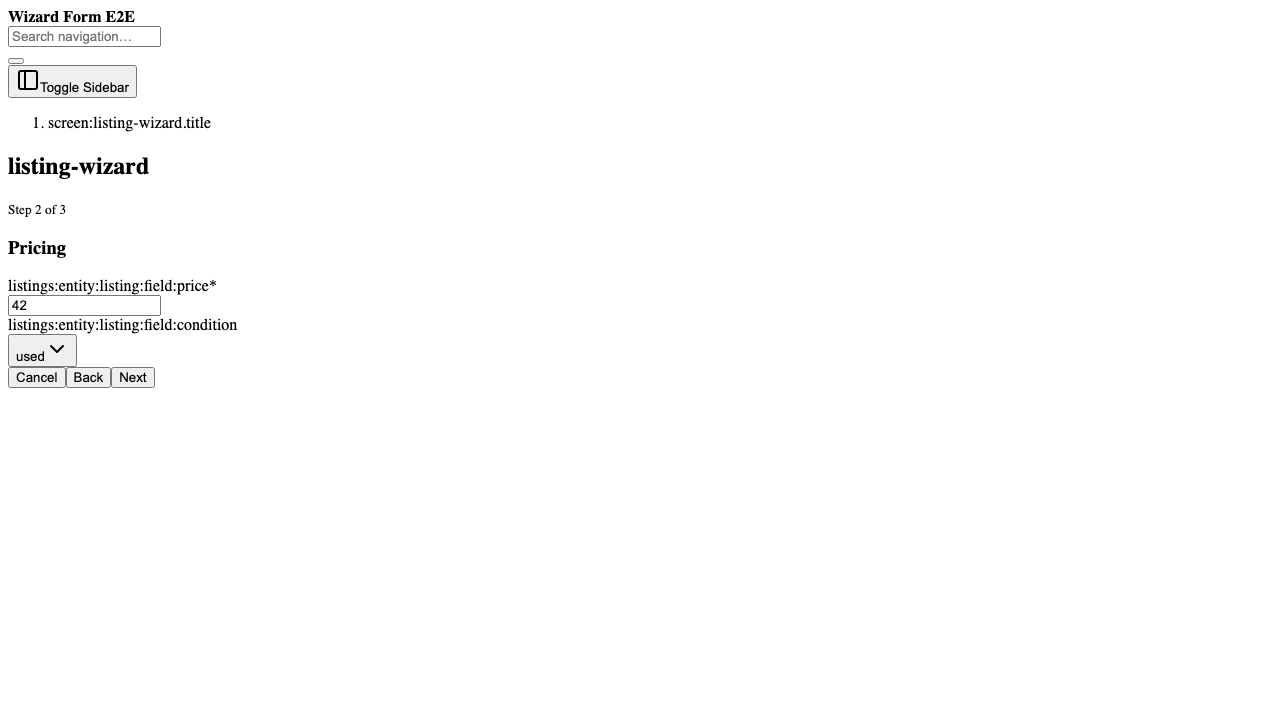
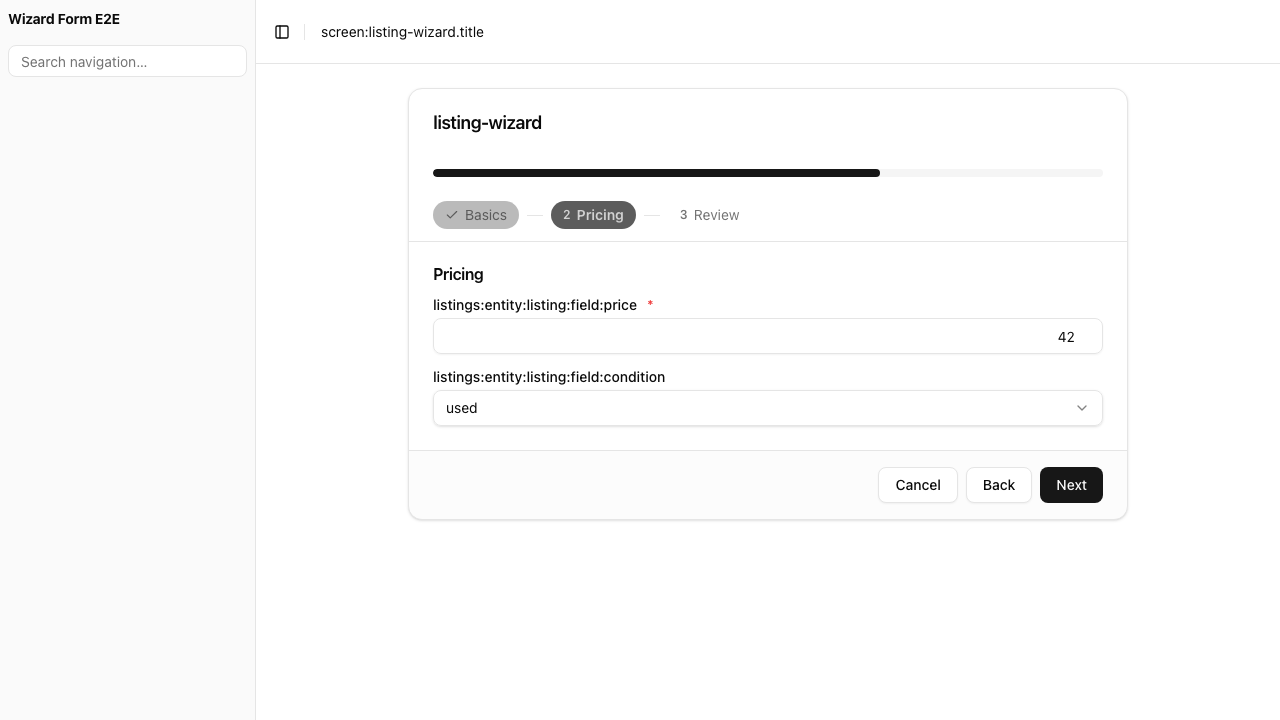
fix(renderer-web): ProgressBar owns its height regardless of container
#1963 fixed the fill bar's width resolving against the wrapper's wrong
height, but never touched why the wrapper was wrong in the first place:
RenderEdit's wizard chrome pads every direct child of the form body
(`[&>:not(section)]:py-3`, first-child `pt-6`), and with box-sizing:
border-box that padding collided with the track's own `h-2`, forcing it
to ~36px instead of 8px (measured live in samples/recipes/wizard-form —
wrapper computed height 36px, padding-top 24px + padding-bottom 12px,
content collapsed to 0).

Move the track into its own inner element so no ancestor's
descendant-selector padding or flex stretch can ever reach it — a
caller's className now lands on the outer wrapper, not the height-
bearing track. Verified in a real browser: wrapper and fill both render
at 8px regardless of step, with fill width tracking progress correctly
(33% at step 1/3, 66% at step 2/3).

Add a Playwright regression against the wizard-form sample that measures
actual computed height and fill width via boundingBox()/toHaveCSS() —
jsdom returns 0 for layout height, so this couldn't be caught in the
existing bun:test unit test, which only asserted structure and class
names.

diff --git a/samples/recipes/wizard-form/e2e/wizard.spec.ts b/samples/recipes/wizard-form/e2e/wizard.spec.ts
@@ -98,6 +98,51 @@ test.describe("wizard-form — step navigation, validation, draft resume", () =>
     }
   });
 
+  test("the progress bar keeps its own 8px height inside the wizard's padded chrome", async ({
+    page,
+  }) => {
+    // Regression for fw#1963/#1967: RenderEdit's wizard chrome pads every
+    // direct child of the form body (`[&>:not(section)]:py-3`, first-child
+    // `pt-6`) — with `box-sizing: border-box` that padding used to consume
+    // the progress bar's `h-2` entirely, rendering a ~36px bar instead of
+    // 8px. A jsdom unit test can't catch this (layout returns 0 there);
+    // only a real browser box model does.
+    await gotoWizard(page);
+    const progress = page.getByTestId("render-edit-wizard-progress");
+    const fill = progress.locator("> div");
+
+    await expect(progress).toHaveCSS("height", "8px");
+    await expect(fill).toHaveCSS("height", "8px");
+
+    // Step 1 of 3 → fill should be ~1/3 of the track width.
+    const step1Wrapper = await progress.boundingBox();
+    const step1Fill = await fill.boundingBox();
+    expect(step1Wrapper).not.toBeNull();
+    expect(step1Fill).not.toBeNull();
+    const step1Ratio = step1Fill!.width / step1Wrapper!.width;
+    expect(step1Ratio).toBeGreaterThan(0.3);
+    expect(step1Ratio).toBeLessThan(0.36);
+
+    await page.getByTestId("field-title").locator("input").fill("Vintage desk lamp");
+    await selectCombobox(page, "category", "furniture");
+    await page.getByTestId("render-edit-wizard-next").click();
+    await expect(page.getByTestId("render-edit-wizard-step-label")).toHaveText(
+      "Step 2 of 3 · Pricing",
+    );
+
+    // Step 2 of 3 → fill should have grown to ~2/3 of the track width, and
+    // both wrapper and fill must still be exactly 8px tall.
+    await expect(progress).toHaveCSS("height", "8px");
+    await expect(fill).toHaveCSS("height", "8px");
+    const step2Wrapper = await progress.boundingBox();
+    const step2Fill = await fill.boundingBox();
+    expect(step2Wrapper).not.toBeNull();
+    expect(step2Fill).not.toBeNull();
+    const step2Ratio = step2Fill!.width / step2Wrapper!.width;
+    expect(step2Ratio).toBeGreaterThan(0.64);
+    expect(step2Ratio).toBeLessThan(0.7);
+  });
+
   test("an empty required field blocks Next and shows a field error", async ({ page }) => {
     await gotoWizard(page);
     // Fill category (also required) so the block is attributable to title

diff --git a/packages/renderer-web/src/widgets/progress-bar.tsx b/packages/renderer-web/src/widgets/progress-bar.tsx
@@ -1,7 +1,14 @@
 import type { ReactNode } from "react";
 import { cn } from "../lib/cn";
 
-/** Fortschrittsbalken, `value` 0..1 (wird geclampt). */
+/**
+ * Progress bar, `value` 0..1 (clamped).
+ *
+ * The track lives in its own inner element so a parent that pads or
+ * stretches its direct children (e.g. RenderEdit's wizard chrome) never
+ * touches the track's own `h-2` — a caller's `className` reaches the
+ * outer wrapper, not the height-bearing track.
+ */
 export function ProgressBar({
   value,
   className,
@@ -13,18 +20,20 @@ export function ProgressBar({
 }): ReactNode {
   const pct = Math.max(0, Math.min(1, value));
   return (
-    <div
-      data-testid={testId}
-      role="progressbar"
-      aria-valuenow={Math.round(pct * 100)}
-      aria-valuemin={0}
-      aria-valuemax={100}
-      className={cn("relative h-2 w-full overflow-hidden rounded-full bg-muted", className)}
-    >
+    <div className={cn("w-full", className)}>
       <div
-        className="absolute inset-y-0 left-0 rounded-full bg-primary"
-        style={{ width: `${pct * 100}%` }}
-      />
+        data-testid={testId}
+        role="progressbar"
+        aria-valuenow={Math.round(pct * 100)}
+        aria-valuemin={0}
+        aria-valuemax={100}
+        className="relative h-2 w-full overflow-hidden rounded-full bg-muted"
+      >
+        <div
+          className="absolute inset-y-0 left-0 rounded-full bg-primary"
+          style={{ width: `${pct * 100}%` }}
+        />
+      </div>
     </div>
   );
 }

diff --git a/.changeset/progress-bar-own-height.md b/.changeset/progress-bar-own-height.md
@@ -1,0 +1,5 @@
+---
+"@cosmicdrift/kumiko-renderer-web": patch
+---
+
+`ProgressBar` now wraps its track in its own element, so the track's `h-2` height is never affected by padding or stretch a parent applies to its direct children. Previously the padding RenderEdit's wizard chrome applies to every direct child of the form body collided with `box-sizing: border-box` on the track itself, expanding it to ~36px instead of 8px — #1963 only fixed the fill bar's width resolving against that wrong height, not the height itself.
